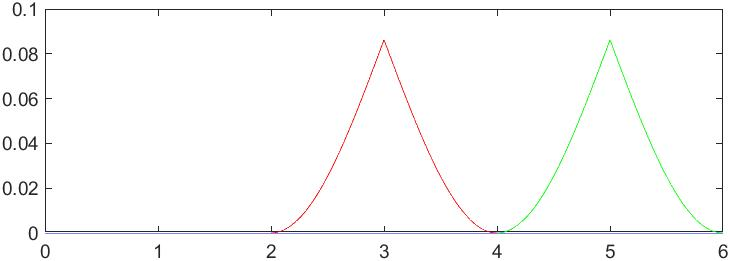
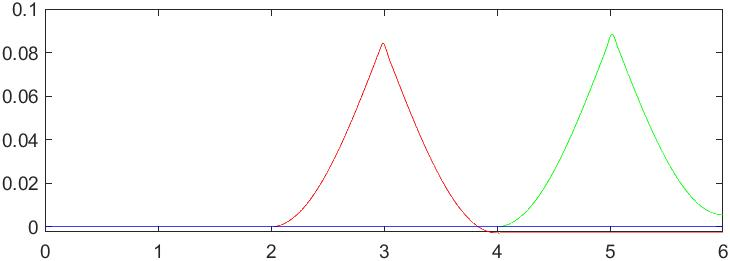
ODE45 why do you do this to me

diff --git a/AERSP304_Proj2.m b/AERSP304_Proj2.m
@@ -18,12 +18,12 @@ I = [ 4.85*10^-3 , 0, 0 ;
      0 , 0 , 8.80*10^-3 ] ;
 
 % setting ODE45 options
-options = odeset('reltol',1e-12,'abstol',1e-12);
+options = odeset('reltol',1e-6,'abstol',1e-6);
 
 % Question 1
 init = zeros(12,1);
 t = linspace(0,6,1200) ;
-[t,d] = ode45(@(t,d) Q1fun(t,d,I), t , init , options);
+[t,d] = ode45(@(t,d) Q1fun(t,d,I), t , init);
 
 ploter(t,d,'1')
 
@@ -31,15 +31,14 @@ ploter(t,d,'1')
 
 %Question 2
 init = [0,0,0,0,1,0,10*pi/180,0,10*pi/180,0,10*pi/180,0] ;
-t = linspace(0,120,2400) ;
-[t,a] = ode45(@(t,d) Q2fun(t,d,I,[10,0,0,0,0,0,0,0]), t , init , options);
+t = linspace(0,120,6000) ;
+[t,a] = ode45(@(t,d) Q2fun(t,d,I,[10,0,0,0,0,0,0,0]), t , init);
 
-rotorSpeeds = getRotorSpeed ;
 
 ploter(t,a,'2')
 
+rotorSpeeds = getRotorSpeed ;
 rt = linspace(0,120,size(rotorSpeeds,1));
-
 figure
 plot(rt,rotorSpeeds(:,1),rt,rotorSpeeds(:,2),rt,rotorSpeeds(:,3),rt,rotorSpeeds(:,4))
 title('Rotor Speeds???')
@@ -300,13 +299,12 @@ function    dDot = Q2fun(t,d,I,rS)
     z2dot = (T/m) * (cos(phi)*cos(theta)) - g ;
 
  
-        rotor1 = sqrt((T/(4*k))-(M/(2*k*l))+(N/(4*b)));
-        rotor2 = sqrt((T/(4*k))-(L/(2*k*l))-(N/(4*b)));
-        rotor3 = sqrt((T/(4*k))+(M/(2*k*l))+(N/(4*b)));
-        rotor4 = sqrt((T/(4*k))+(L/(2*k*l))-(N/(4*b)));
+    rotor(1) = sqrt((T/(4*k))-(M/(2*k*l))+(N/(4*b)));
+    rotor(2) = sqrt((T/(4*k))-(L/(2*k*l))-(N/(4*b)));
+    rotor(3) = sqrt((T/(4*k))+(M/(2*k*l))+(N/(4*b)));
+    rotor(4) = sqrt((T/(4*k))+(L/(2*k*l))-(N/(4*b)));
   
-        setRotorSpeed(rotor1,rotor2,rotor3,rotor4);
-    
+    setRotorSpeed(rotor(1),rotor(2),rotor(3),rotor(4));
     
     % return
     dDot = [x1dot; x2dot; y1dot; y2dot; z1dot; z2dot; phidot; pdot; thetadot; qdot; psidot; rdot];
